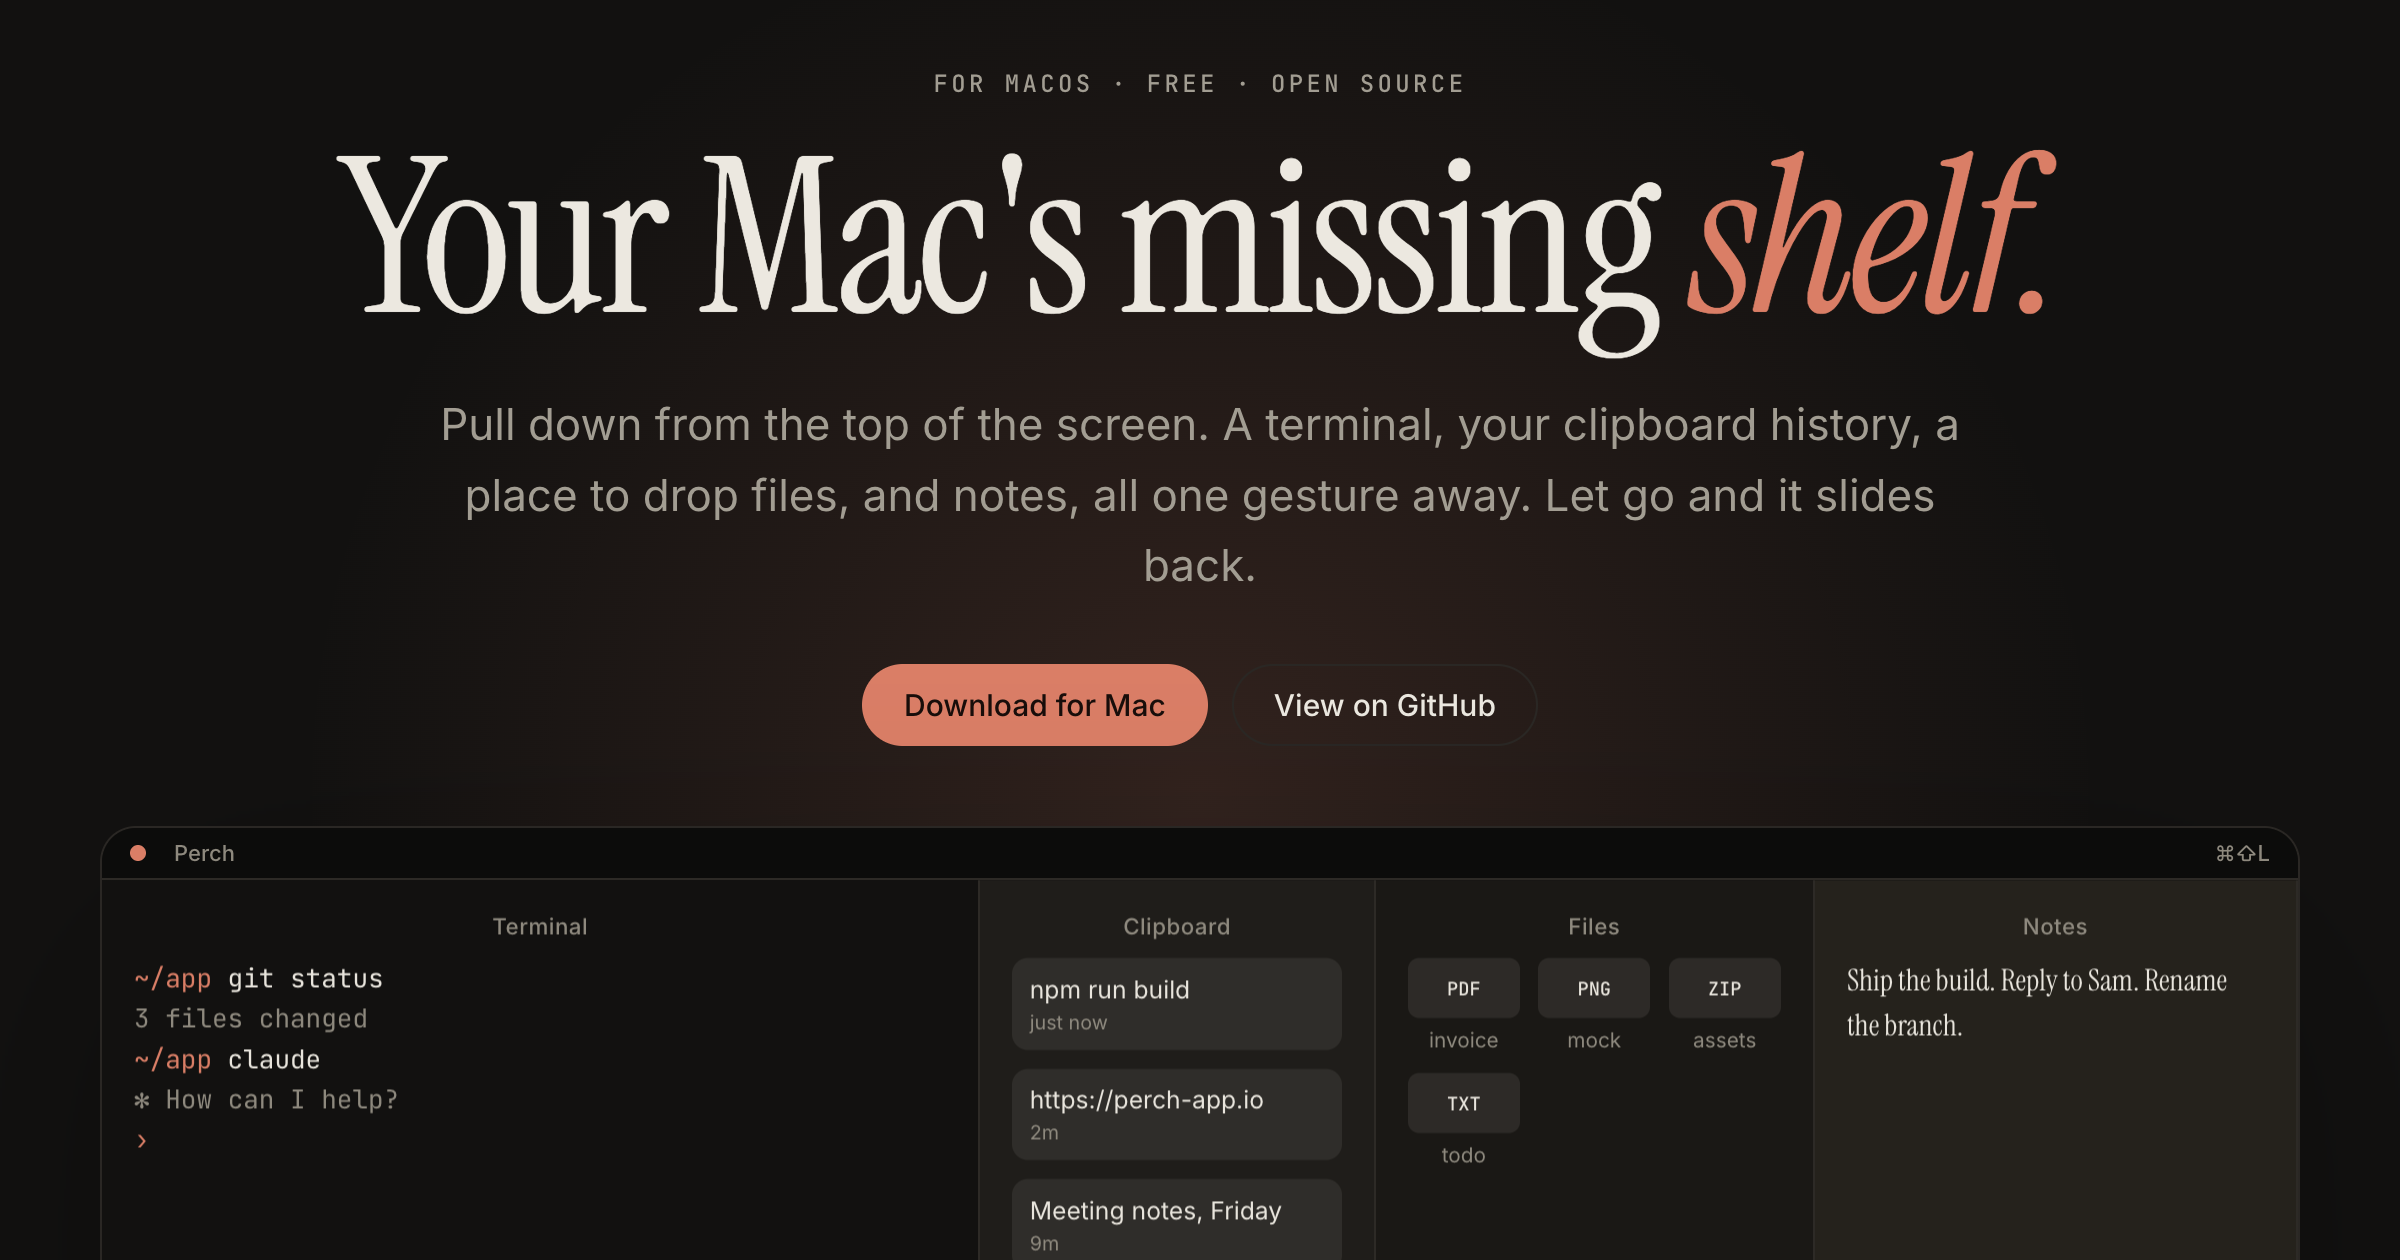
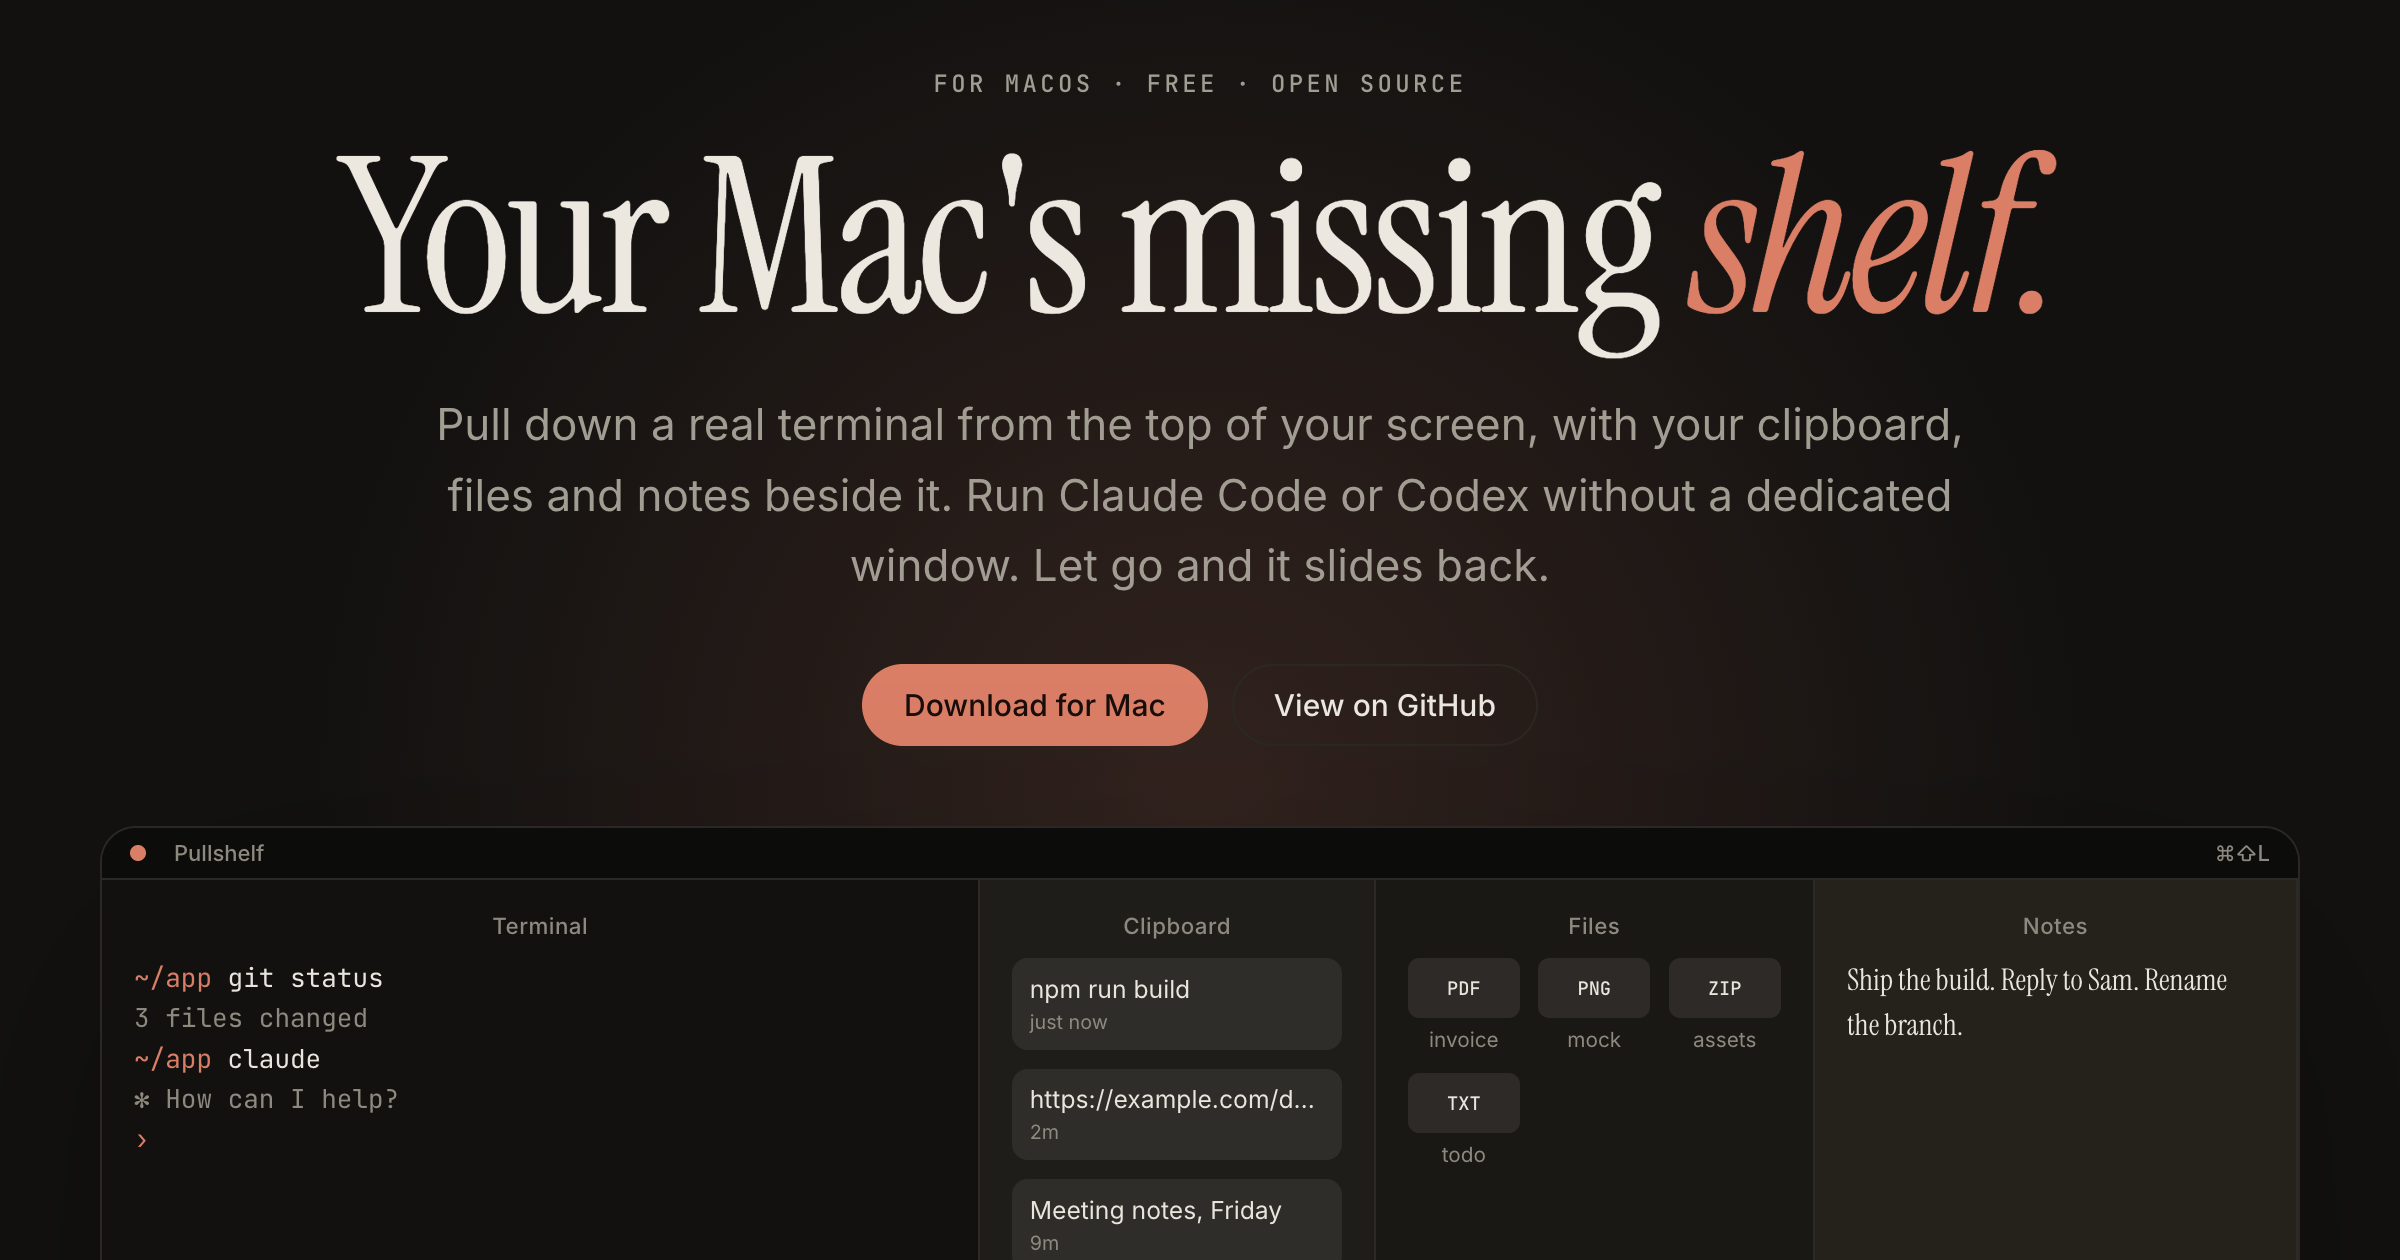
Site: lead with the terminal, add a comparison FAQ, fix the pricing line
Hero subhead, title, meta and OG image now lead with the pull-down
terminal for Claude Code and Codex. Adds a neutral FAQ entry comparing
Unclutter and Ghostty's quick terminal, drops "for the app itself" from
the pricing line, and adds a hidden PROOF section for real quotes and
star count after launch.

Changed region(s): [[0.1875, 0.3095, 0.8125, 0.4333], [0.3438, 0.4333, 0.6562, 0.4643], [0.4688, 0.8667, 0.5312, 0.8976]]

diff --git a/docs/index.html b/docs/index.html
@@ -3,20 +3,20 @@
 <head>
 <meta charset="utf-8">
 <meta name="viewport" content="width=device-width, initial-scale=1">
-<title>Pullshelf: a pull-down shelf for your Mac</title>
-<meta name="description" content="Pull down from the top of your screen for a terminal, clipboard history, a file drop zone and notes. Free and open source for macOS.">
+<title>Pullshelf: a pull-down terminal for your Mac</title>
+<meta name="description" content="Pull down a real terminal from the top of your screen, with clipboard history, file references and notes beside it. Free and open source for macOS.">
 <meta name="robots" content="index,follow,max-image-preview:large">
 <link rel="canonical" href="https://pullshelf.vercel.app/">
 <meta name="theme-color" content="#121110">
 <meta property="og:type" content="website"><meta property="og:site_name" content="Pullshelf">
-<meta property="og:title" content="Pullshelf: a pull-down shelf for your Mac"><meta property="og:description" content="Pull down from the top of your screen for a terminal, clipboard history, a file drop zone and notes. Free and open source for macOS.">
+<meta property="og:title" content="Pullshelf: a pull-down terminal for your Mac"><meta property="og:description" content="Pull down a real terminal from the top of your screen, with clipboard history, file references and notes beside it. Free and open source for macOS.">
 <meta property="og:url" content="https://pullshelf.vercel.app/"><meta property="og:image" content="https://pullshelf.vercel.app/assets/og.png">
 <meta name="twitter:card" content="summary_large_image"><meta name="twitter:image" content="https://pullshelf.vercel.app/assets/og.png">
 <link rel="icon" href="assets/favicon.png" type="image/png">
 <link rel="preload" href="assets/vendor/fonts/instrument-serif-latin-400-normal.woff2" as="font" type="font/woff2" crossorigin>
 <link rel="stylesheet" href="assets/site.css">
 <script>document.documentElement.classList.add('js');try{var t=localStorage.getItem('pullshelf-site-theme');if(t)document.documentElement.setAttribute('data-theme',t)}catch(e){}</script>
-<script type="application/ld+json">{"@context":"https://schema.org","@type":"SoftwareApplication","name":"Pullshelf","operatingSystem":"macOS 13+","applicationCategory":"ProductivityApplication","description":"A pull-down shelf for the Mac with a terminal, clipboard history, files and notes.","url":"https://pullshelf.vercel.app","offers":{"@type":"Offer","price":"0","priceCurrency":"USD"},"license":"https://opensource.org/license/mit"}</script>
+<script type="application/ld+json">{"@context":"https://schema.org","@type":"SoftwareApplication","name":"Pullshelf","operatingSystem":"macOS 13+","applicationCategory":"ProductivityApplication","description":"A pull-down terminal for the Mac, with clipboard history, files and notes.","url":"https://pullshelf.vercel.app","offers":{"@type":"Offer","price":"0","priceCurrency":"USD"},"license":"https://opensource.org/license/mit"}</script>
 </head>
 <body>
 <a class="skip" href="#main">Skip to content</a>
@@ -28,7 +28,7 @@
   <div class="hero-copy">
     <p class="eyebrow">For macOS · Free · Open source</p>
     <h1>Your Mac's missing <em>shelf.</em></h1>
-    <p class="lede">Pull down from the top of the screen. A terminal, your clipboard history, a place to drop files, and notes, all one gesture away. Let go and it slides back.</p>
+    <p class="lede">Pull down a real terminal from the top of your screen, with your clipboard, files and notes beside it. Run Claude Code or Codex without a dedicated window. Let go and it slides back.</p>
     <div class="cta"><a class="btn primary" href="download.html">Download for Mac</a><a class="btn" href="https://github.com/yogeshvar/pullshelf">View on GitHub</a></div>
     <div class="install"><code>brew install --cask yogeshvar/pullshelf/pullshelf</code><button type="button" data-copy="brew install --cask yogeshvar/pullshelf/pullshelf">Copy</button></div>
     <p class="fine">Apple Silicon · macOS 13+ · v0.1.1</p>
@@ -138,13 +138,13 @@ Rename the branch.</div></div>
 <section class="sec support"><div class="wrap">
   <p class="eyebrow">Price</p>
   <h2 data-rise>Free. <em>Open source.</em></h2>
-  <p class="lede" data-rise>Pullshelf costs nothing and always will for the app itself. No accounts, no locked features, no nagging. If you like it, a star on GitHub or a word to a friend helps more than you'd think.</p>
+  <p class="lede" data-rise>Pullshelf is free and open source. No accounts, no locked features, no nagging. If you like it, a star on GitHub or a word to a friend helps more than you'd think.</p>
   <div class="cta"><a class="btn primary" href="download.html">Download for Mac</a><a class="btn" href="https://github.com/yogeshvar/pullshelf">Star on GitHub</a></div>
 </div></section>
 
 <section class="sec faq"><div class="wrap prose" style="max-width:820px">
   <h2>Questions</h2>
-  <div style="margin-top:36px"><details><summary>Is Pullshelf free?</summary><p>Yes. Pullshelf is open source under the MIT license. You can build it yourself, install it with Homebrew, or download the zip, at no cost. There are no paid tiers, locked features or accounts.</p></details><details><summary>Which Macs does it run on?</summary><p>Apple Silicon Macs running macOS 13 or newer. An Intel build is not available yet.</p></details><details><summary>Why does macOS warn me on first launch?</summary><p>Pullshelf is ad-hoc signed but not yet notarized by Apple. On first launch, open it once, then go to System Settings, Privacy &amp; Security, and choose Open Anyway. Notarization is planned.</p></details><details><summary>What does it send over the network?</summary><p>Nothing. There is no telemetry, no account and no cloud sync. Your clips, notes and file references stay in a local database on your Mac.</p></details><details><summary>Why does it ask for Accessibility permission?</summary><p>Only the pull-down gesture needs it, to read two-finger scrolls at the top screen edge. You can skip it and open Pullshelf with ⌘⇧L or from the menu bar icon.</p></details><details><summary>Does it work with Claude Code or Codex?</summary><p>Yes. The terminal pane can start your shell, Claude Code or Codex, and you can send a clip or note straight into it.</p></details></div>
+  <div style="margin-top:36px"><details><summary>Is Pullshelf free?</summary><p>Yes. Pullshelf is open source under the MIT license. You can build it yourself, install it with Homebrew, or download the zip, at no cost. There are no paid tiers, locked features or accounts.</p></details><details><summary>Which Macs does it run on?</summary><p>Apple Silicon Macs running macOS 13 or newer. An Intel build is not available yet.</p></details><details><summary>How is this different from Unclutter or Ghostty's quick terminal?</summary><p>Unclutter is a pull-down panel for your clipboard, files and notes. Ghostty's quick terminal (like iTerm2's hotkey window) is a drop-down terminal. Pullshelf puts all four panes in a single pull-down, so a real terminal sits beside your clipboard, file references and notes, and you can send a clip or note into it. It is free, open source and MIT licensed.</p></details><details><summary>Why does macOS warn me on first launch?</summary><p>Pullshelf is ad-hoc signed but not yet notarized by Apple. On first launch, open it once, then go to System Settings, Privacy &amp; Security, and choose Open Anyway. Notarization is planned.</p></details><details><summary>What does it send over the network?</summary><p>Nothing. There is no telemetry, no account and no cloud sync. Your clips, notes and file references stay in a local database on your Mac.</p></details><details><summary>Why does it ask for Accessibility permission?</summary><p>Only the pull-down gesture needs it, to read two-finger scrolls at the top screen edge. You can skip it and open Pullshelf with ⌘⇧L or from the menu bar icon.</p></details><details><summary>Does it work with Claude Code or Codex?</summary><p>Yes. The terminal pane can start your shell, Claude Code or Codex, and you can send a clip or note straight into it.</p></details></div>
 </div></section>
 </main>
 <footer><div class="wrap foot"><div><a class="brand" href="index.html"><i></i>Pullshelf</a><p>A pull-down shelf for the Mac.<br>MIT licensed. No telemetry.</p>

diff --git a/docs/assets/site.css b/docs/assets/site.css
@@ -138,6 +138,17 @@ kbd{border:1px solid var(--rule);border-bottom-width:2px;border-radius:6px;paddi
 .themes .desk{aspect-ratio:16/10}
 .themes .shelf{height:86%}
 
+/* proof — only rendered when PROOF has real quotes or a star count */
+.proof-head{display:flex;align-items:baseline;justify-content:space-between;gap:20px;flex-wrap:wrap;margin-bottom:32px}
+.proof-head .eyebrow{margin:0}
+.proof-stars{font:500 13px/1 var(--mono);color:var(--muted);margin:0}
+.proof-stars a{color:var(--ink);text-decoration-color:var(--accent);text-underline-offset:3px}
+.quotes{display:grid;grid-template-columns:repeat(auto-fit,minmax(min(100%,280px),1fr));gap:20px}
+.quote{margin:0;border:1px solid var(--rule);border-radius:16px;padding:28px;background:var(--bg2);max-width:620px}
+.quote blockquote{margin:0;font:400 24px/1.35 var(--display);letter-spacing:-.01em}
+.quote figcaption{margin-top:18px;color:var(--muted);font-size:14px}
+.quote figcaption a{color:var(--ink);text-decoration-color:var(--accent);text-underline-offset:3px}
+
 /* support */
 .support{text-align:center}
 .support .lede{margin-inline:auto}

diff --git a/marketing/LAUNCH.md b/marketing/LAUNCH.md
@@ -111,3 +111,5 @@ Target: indie Mac app newsletters, Mac/dev YouTubers and bloggers who cover util
 ## What to measure (no vanity)
 
 GitHub release downloads, brew installs (public analytics), stars, issues opened, Vercel Analytics visitors and the `download_zip` and `copy_brew` events, and replies that say "I use this daily".
+
+When you have real proof, fill `PROOF` in `build/site.mjs` (first user quotes, star count) and run `node build/site.mjs`. The section stays hidden while `PROOF` is empty. Never seed it with fake content.
